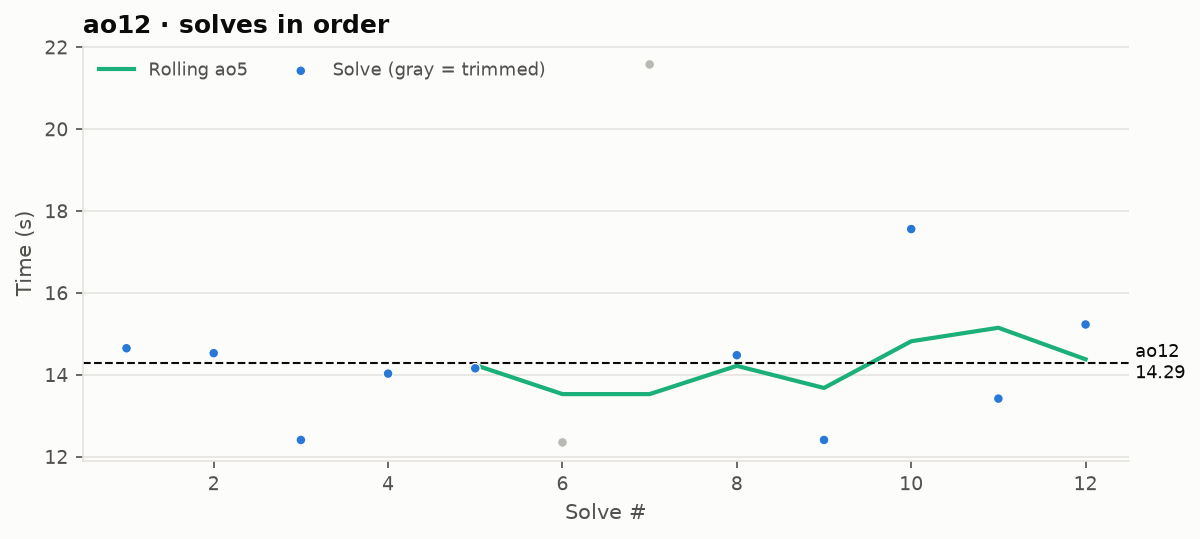
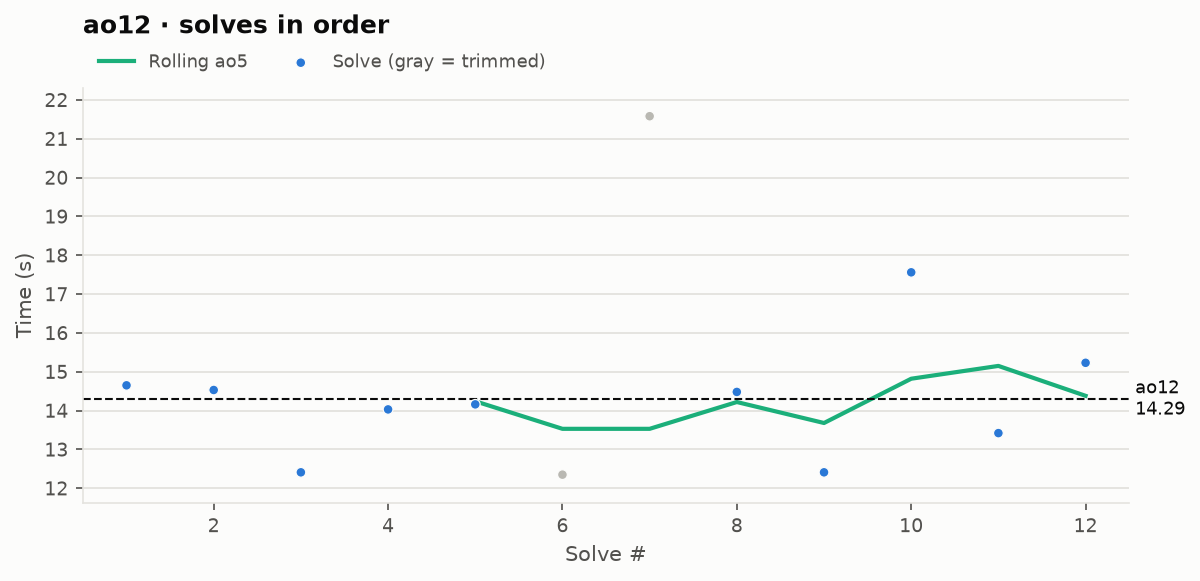
Per-second time gridlines (half-seconds when tight); clearer density axis label

diff --git a/scripts/build.py b/scripts/build.py
@@ -197,6 +197,26 @@ def fmt(t):
 
 # ---------------------------------------------------------------- charts
 
+def time_grid(axes, lo, hi, which="x"):
+    """Gridlines on the time axis: solid + labeled every second, plus dotted
+    half-seconds when the times are close together (span <= 6 s), labeled too
+    when very close (span <= 4 s)."""
+    import matplotlib.ticker as mt
+    span = hi - lo
+    for ax in axes:
+        axis = ax.xaxis if which == "x" else ax.yaxis
+        axis.set_major_locator(mt.MultipleLocator(1))
+        axis.set_major_formatter(mt.FormatStrFormatter("%d"))
+        ax.grid(axis=which, which="major", color=GRID, linewidth=0.9, linestyle="-")
+        if span <= 6:
+            axis.set_minor_locator(mt.MultipleLocator(0.5))
+            ax.grid(axis=which, which="minor", color=GRID, linewidth=0.9, linestyle=(0, (2, 3)))
+            if span <= 4:
+                axis.set_minor_formatter(mt.FormatStrFormatter("%.1f"))
+                ax.tick_params(axis=which, which="minor", labelsize=7.5, labelcolor=INK_2)
+        ax.set_axisbelow(True)
+
+
 def style_axes(ax):
     ax.set_facecolor(SURFACE)
     for side in ("top", "right"):
@@ -258,7 +278,7 @@ def plot_distribution(event, day, times, trimmed, avg, st, out, solves=None):
     ax.text(st["median"], ymax * 0.98, f" median {fmt(st['median'])} ", color=INK_2,
             fontsize=9, va="top", ha="right" if avg_right else "left")
 
-    ax.set_ylabel("Solves per second", color=INK_2)
+    ax.set_ylabel("Solves within a 1-second window", color=INK_2)
     ax.set_title(f"{event} PB · {fmt(avg)} · {day}", loc="left", color=INK,
                  fontsize=13, fontweight="bold", pad=52)
     ax.legend(frameon=False, fontsize=8.5, labelcolor=INK_2, loc="lower left",
@@ -267,6 +287,8 @@ def plot_distribution(event, day, times, trimmed, avg, st, out, solves=None):
     # Box plot + every solve as a dot underneath, same x-axis.
     style_axes(axb)
     axb.grid(False)
+    time_grid([ax, axb], allt.min(), allt.max())
+    ax.set_xlim(lo, hi)
     axb.boxplot(allt, orientation="horizontal", widths=0.55, patch_artist=True, showfliers=False,
                 boxprops={"facecolor": "#dbe8f8", "edgecolor": COUNTED},
                 medianprops={"color": INK, "linewidth": 1.5},
@@ -358,9 +380,10 @@ def plot_numberline(event, day, times, trimmed, avg, st, out, solves=None):
                 fontweight="bold" if col == INK else "normal")
     ytop = 0.35 + top * 0.9 + 0.6
     ax.set_ylim(base - 0.75, ytop)
+    time_grid([ax, axb], allt.min(), allt.max())
     ax.set_xlim(lo, hi)
     ax.spines["bottom"].set_visible(False)
-    ax.tick_params(axis="x", length=0)
+    ax.tick_params(axis="x", which="both", length=0, labelbottom=False)
 
     ax.set_title(f"{event} PB · {fmt(avg)} · {day}", loc="left", color=INK,
                  fontsize=13, fontweight="bold", pad=30)
@@ -407,11 +430,15 @@ def plot_sequence(event, day, times, trimmed, avg, out):
     ax.axhline(avg, color=INK, linewidth=1, linestyle="--")
     ax.text(n + 0.5, avg, f" {event}\n {fmt(avg)}", color=INK, fontsize=8.5, va="center")
     ax.set_xlim(0.5, n + 0.5)
+    fin = y[np.isfinite(y)]
+    time_grid([ax], fin.min(), fin.max(), which="y")
     ax.set_xlabel("Solve #", color=INK_2)
     ax.set_ylabel("Time (s)", color=INK_2)
+    ax.margins(y=0.08)
     ax.set_title(f"{event} · solves in order", loc="left", color=INK, fontsize=12,
-                 fontweight="bold")
-    ax.legend(frameon=False, fontsize=8.5, labelcolor=INK_2, loc="upper left", ncol=2)
+                 fontweight="bold", pad=26)
+    ax.legend(frameon=False, fontsize=8.5, labelcolor=INK_2, loc="lower left",
+              bbox_to_anchor=(0, 1.0), ncol=2)
     fig.savefig(out, dpi=150, bbox_inches="tight", facecolor=SURFACE)
     plt.close(fig)
 
